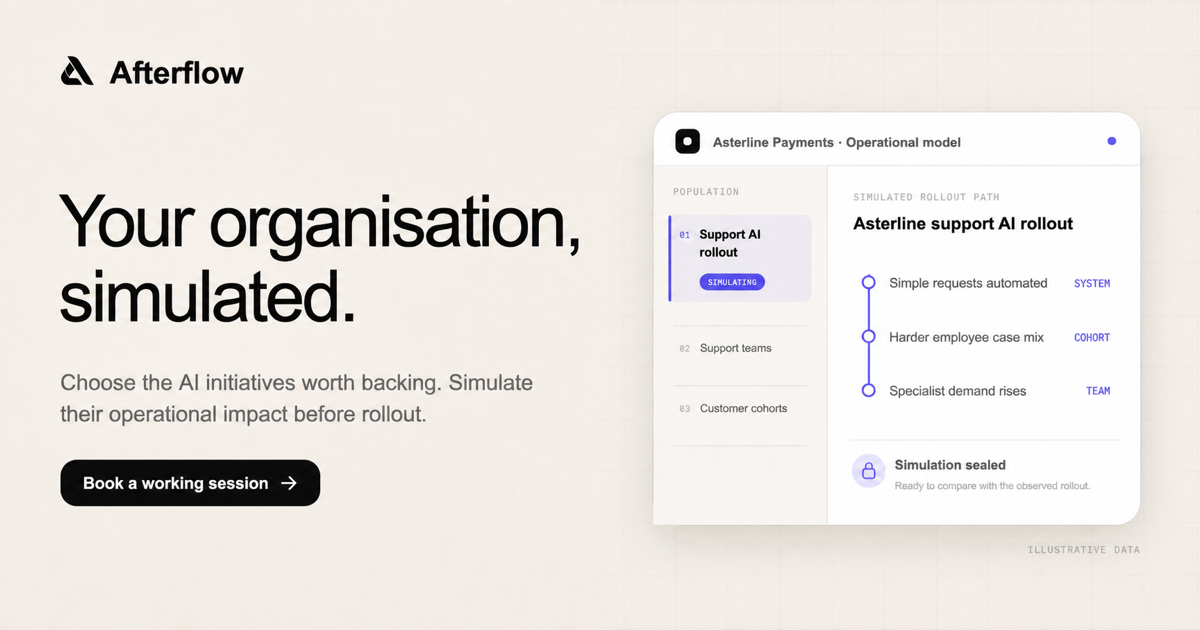
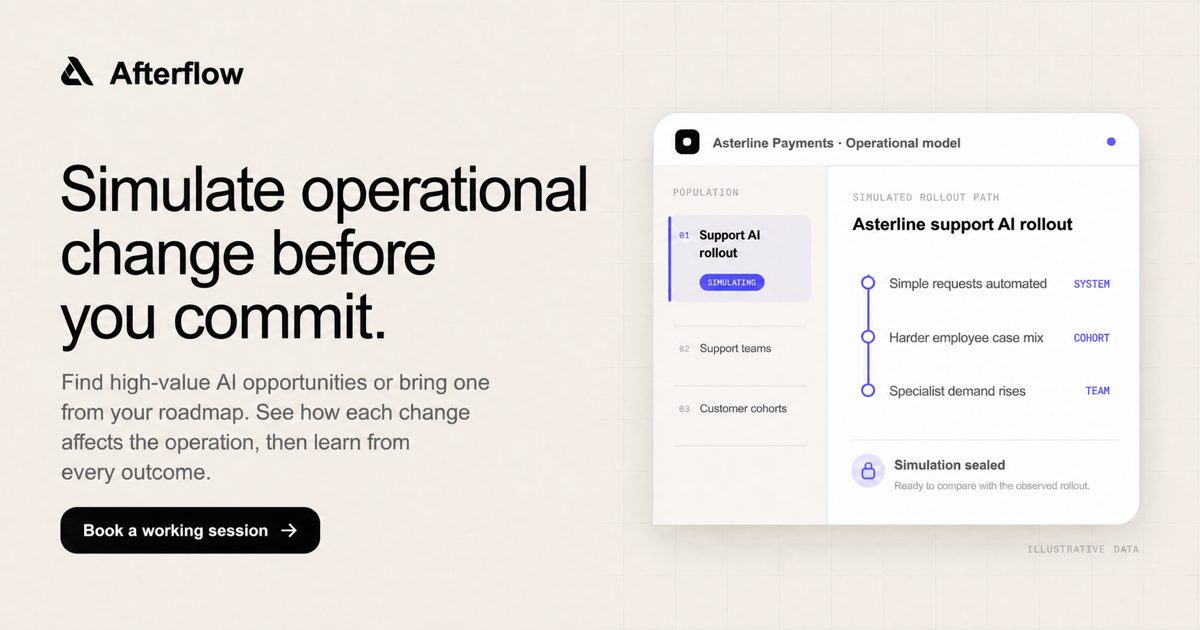
clearer messaging

diff --git a/app/privacy/page.tsx b/app/privacy/page.tsx
@@ -19,7 +19,7 @@ const sections = [
     title: "Scope",
     body: [
       `This Privacy Policy explains how ${companyLegalName} ("Afterflow", "we", "us", or "our") collects, uses, discloses, and otherwise handles personal information in connection with our website, request forms, demos, evaluations, communications, and related products and services (collectively, the "Services").`,
-      "Afterflow helps organizations dry-run high-stakes operational decisions by structuring approved context into a world model, running decision simulations, and surfacing evidence-backed paths, assumptions, stakeholders, and mitigations.",
+      "Afterflow helps organizations evaluate operational change before execution by structuring approved context into an operational model, running decision simulations, and surfacing evidence-backed paths, assumptions, stakeholders, and mitigations.",
       "This policy does not apply to third-party websites, services, or integrations that we do not control. Customer deployments, private environments, order forms, or enterprise agreements may include additional privacy, security, or data-processing terms.",
     ],
   },
@@ -44,7 +44,7 @@ const sections = [
     title: "How We Use Information",
     body: [
       "We use information to provide, operate, maintain, secure, troubleshoot, and improve the Services; respond to requests; communicate with you; authenticate users; prevent fraud or abuse; and comply with legal obligations.",
-      "We use Customer Content to ingest and structure operational context, build world models and stakeholder maps, run decision simulations, compare branches, and generate evidence-backed outputs such as ranked paths, assumptions, leading indicators, simulated actions, and mitigations.",
+      "We use Customer Content to ingest and structure operational context, build operational models and stakeholder maps, run decision simulations, compare branches, and generate evidence-backed outputs such as ranked paths, assumptions, leading indicators, simulated actions, and mitigations.",
       "We may use usage data, diagnostics, feedback, aggregated information, or de-identified information to understand and improve the Services, subject to applicable law and any written agreement with a customer.",
     ],
   },

diff --git a/app/components/landing/hero.tsx b/app/components/landing/hero.tsx
@@ -551,17 +551,13 @@ export function Hero() {
       <div className="hero-grid" aria-hidden="true" />
       <div className="relative mx-auto grid w-full min-w-0 max-w-[100rem] grid-cols-[minmax(0,1fr)] items-center gap-12 lg:grid-cols-[0.84fr_1.16fr] lg:gap-10 xl:gap-16">
         <div className="hero-copy w-full min-w-0 max-w-[42rem]">
-          <p className="metric text-[0.65rem] uppercase tracking-[0.14em] text-black/42">
-            Your organisation, simulated.
-          </p>
-          <h1 className="mt-5 max-w-[42rem] text-[clamp(2.85rem,3.7vw,4.25rem)] font-light leading-[0.96] tracking-[-0.04em] text-[#11110f]">
-            Back the right AI initiatives. Simulate their operational impact
-            before rollout.
+          <h1 className="max-w-[42rem] text-[clamp(2.85rem,3.7vw,4.25rem)] font-light leading-[0.96] tracking-[-0.04em] text-[#11110f]">
+            Simulate operational change before you commit.
           </h1>
           <p className="mt-6 max-w-[37rem] text-lg leading-7 text-black/58 sm:text-xl sm:leading-8">
-            Find high-value opportunities or bring an initiative already on your
-            roadmap. Simulate its effects across teams, systems and customers,
-            then improve the next decision with every rollout.
+            Find high-value AI opportunities or bring one already on your
+            roadmap. See how each change affects teams, systems and customers,
+            then learn from every outcome.
           </p>
           <div className="mt-8">
             <a href={bookingUrl} target="_blank" rel="noreferrer" className="primary-button group">

diff --git a/app/terms/page.tsx b/app/terms/page.tsx
@@ -26,7 +26,7 @@ const sections = [
   {
     title: "Service Description",
     body: [
-      "Afterflow helps organizations dry-run high-stakes operational decisions before execution. The Services may help structure approved context, build world models and stakeholder maps, run decision simulations, compare branches, and surface evidence-backed paths, assumptions, leading indicators, simulated actions, and mitigations.",
+      "Afterflow helps organizations evaluate operational change before execution. The Services may help structure approved context, build operational models and stakeholder maps, run decision simulations, compare branches, and surface evidence-backed paths, assumptions, leading indicators, simulated actions, and mitigations.",
       "The Services are intended for bounded scenarios with a real decision, a decision owner, an approved data boundary, and a defined time window. They are not intended for generic research tasks or decisions with no meaningful operational consequence.",
       "Specific features, integrations, deployment models, processing locations, and security controls may vary by plan, configuration, customer environment, and any separate written agreement.",
     ],

diff --git a/app/lib/site.ts b/app/lib/site.ts
@@ -26,10 +26,10 @@ export const companyLegalName = "Afterflow Inc.";
 export const siteTitle =
   "Afterflow | Simulate the Operational Impact of AI";
 export const siteDescription =
-  "Find high-value AI opportunities or bring one from your roadmap. Simulate how each change affects the operation, then learn from every outcome.";
-export const socialTitle = "Your organisation, simulated.";
+  "Find high-value AI opportunities or bring one already on your roadmap. See how each change affects teams, systems and customers, then learn from every outcome.";
+export const socialTitle = "Simulate operational change before you commit.";
 export const socialDescription =
-  "Choose the AI initiatives worth backing. Simulate their operational impact before rollout.";
+  "Find high-value AI opportunities or bring one from your roadmap. See how each change affects the operation, then learn from every outcome.";
 
 export const contactEmail =
   process.env.NEXT_PUBLIC_CONTACT_EMAIL?.trim() || "mika@afterflow.dev";

diff --git a/app/layout.tsx b/app/layout.tsx
@@ -180,8 +180,8 @@ export default function RootLayout({
       {
         "@id": serviceId,
         "@type": "Service",
-        name: "Afterflow operational impact simulation for AI initiatives",
-        serviceType: "AI operational impact simulation",
+        name: "Afterflow operational change simulation",
+        serviceType: "Operational change simulation for AI initiatives",
         url: siteRootUrl,
         description: siteDescription,
         provider: {

diff --git a/app/components/site-footer.tsx b/app/components/site-footer.tsx
@@ -30,7 +30,7 @@ export function SiteFooter() {
               <span className="text-2xl font-medium leading-none">Afterflow</span>
             </Link>
             <p className="mt-5 max-w-[32rem] text-lg font-light leading-7 text-white/54">
-              Afterflow. Your organisation, simulated.
+              Simulate operational change before you commit.
             </p>
           </div>
 
